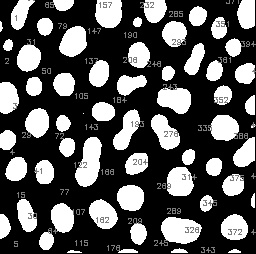
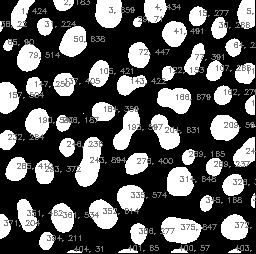
Final changes

diff --git a/region_analysis/cell_counting.py b/region_analysis/cell_counting.py
@@ -65,8 +65,7 @@ class CellCounting:
                         if(i in regions.keys()):
                             regions[i].append((x, y))
                         else:
-                            regions.update( {i : [(x, y)]})
-        
+                            regions.update( {i : [(x, y)]})   
         return regions
 
     def compute_statistics(self, region):
@@ -79,22 +78,27 @@ class CellCounting:
         # <region number>: <location or center>, <area>
         # print(stats)
         statistics = []
-        for pair in region:
-            if(len(region[pair]) >= 15):
-                x = 0
-                y = 0
-                sum_x = 0
-                sum_y = 0
-                for pixel in region[pair]:
+        image = np.zeros((254, 256))
+        for key in region:
+            area = len(region[key])
+            
+            x = 0
+            y = 0
+
+            sum_x = 0
+            sum_y = 0
+            if (area >= 15):
+                for pixel in region[key]:
                     sum_x += pixel[0]
                     sum_y += pixel[1]
-                x = int(sum_x/len(region[pair]))
-                y = int(sum_y/len(region[pair]))
-
-                statistics.append([pair, len(region[pair]), (x, y)]) #region/cell, area, centeroid
                 
-                print("Region: " + str(pair) + ", Area: " + str(len(region[pair])) 
-                        + ", Centeroid: (" + str(x) + ", " + str(y) + ")")
+                #Centroid coordinates
+                x = int(sum_x/area)
+                y = int(sum_y/area)
+
+                statistics.append((key, area, (y, x))) #Region key, area, centroid (swapped x, y)
+                print("Region: %a, Area: %s, Centroid: (%g,%d)" %(key, area, x, y))
+
         return statistics
 
     def mark_image_regions(self, image, stats):
@@ -108,6 +112,6 @@ class CellCounting:
         result_img = image.copy()
         font = cv2.FONT_HERSHEY_SIMPLEX
         for pair in stats:
-            result_img = cv2.putText(result_img, str(pair[0]), pair[2], font, 0.25, 125)
+            result_img = cv2.putText(result_img, str(pair[0]) + ", " + str(pair[1]), pair[2], font, 0.25, 125)
         return result_img
 
